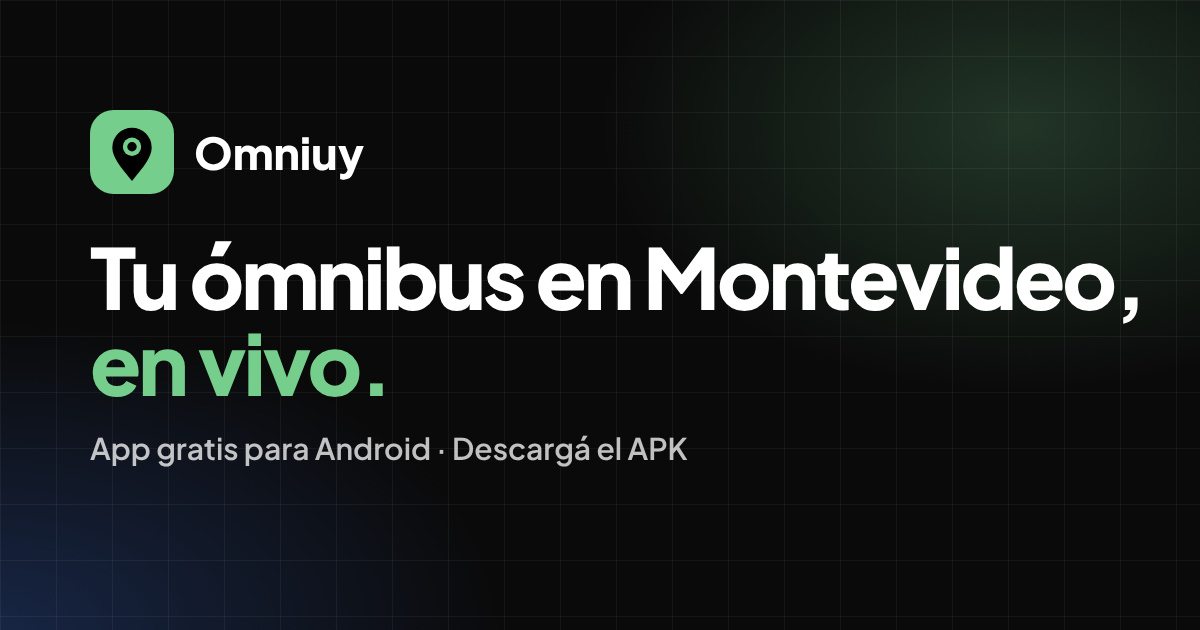
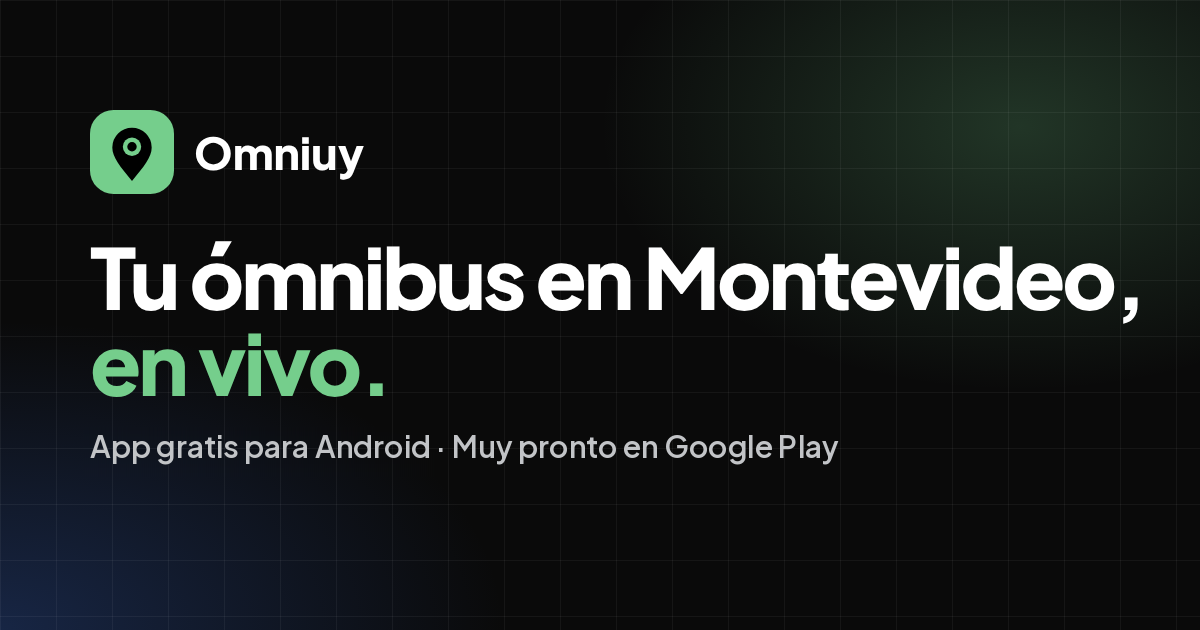
Imagen de la tarjeta para compartir: "Muy pronto en Google Play" en vez de "Descargá el APK" (con ?v=2 para que WhatsApp la pida de nuevo)

Changed region(s): [[0.0617, 0.6937, 0.7092, 0.754]]

diff --git a/index.html b/index.html
@@ -16,7 +16,7 @@
   <meta property="og:title" content="Omniuy · Tu ómnibus en Montevideo, en vivo">
   <meta property="og:description" content="Ómnibus en vivo, alerta para bajarte en tu parada y hora estimada de llegada. Descargala gratis para Android.">
   <meta property="og:url" content="https://www.omniuy.app/">
-  <meta property="og:image" content="https://www.omniuy.app/img/og-imagen.png">
+  <meta property="og:image" content="https://www.omniuy.app/img/og-imagen.png?v=2">
   <meta property="og:image:width" content="1200">
   <meta property="og:image:height" content="630">
   <meta property="og:image:alt" content="Omniuy, tu ómnibus en Montevideo en vivo">

diff --git a/api/viaje.js b/api/viaje.js
@@ -75,7 +75,7 @@ module.exports = function (req, res) {
   <meta property="og:title" content="${escapar(titulo)}">
   <meta property="og:description" content="${escapar(descripcion)}">
   <meta property="og:url" content="${escapar(enlace)}">
-  <meta property="og:image" content="${SITIO}/img/og-imagen.png">
+  <meta property="og:image" content="${SITIO}/img/og-imagen.png?v=2">
   <meta property="og:image:width" content="1200">
   <meta property="og:image:height" content="630">
   <meta name="twitter:card" content="summary_large_image">
